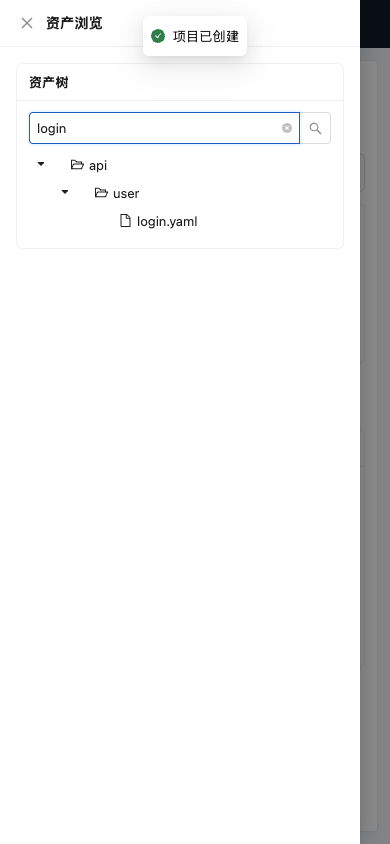
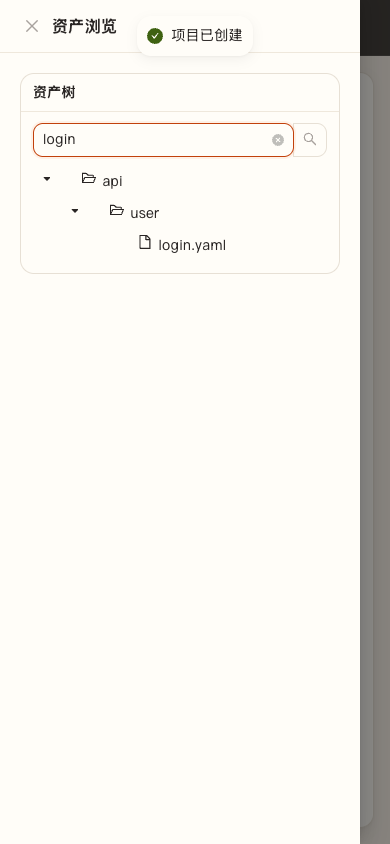
feat(frontend): 落地 C3 暖沙工作室主题与布局壳
用赤陶主色与暖沙底替换冷蓝工具台配色；柔圆角、轻阴影与展示感字阶；
刷新 phase2-4 e2e 截图并保留 c3- 关键页标注。

diff --git a/frontend/src/app/App.tsx b/frontend/src/app/App.tsx
@@ -8,53 +8,87 @@ import { ErrorBoundary } from '@/shared/ui/ErrorBoundary'
 
 const queryClient = createAppQueryClient()
 
+/** C3 暖沙工作室：暖灰沙底 + 赤陶强调，浅色长时操作友好 */
+const warmSandTheme = {
+  token: {
+    colorPrimary: '#c2410c',
+    colorInfo: '#c2410c',
+    colorSuccess: '#3f6212',
+    colorWarning: '#a16207',
+    colorError: '#b91c1c',
+    colorBgLayout: '#f5efe6',
+    colorBgContainer: '#fffdf8',
+    colorBgElevated: '#fffdf8',
+    colorBorder: '#e7e0d5',
+    colorBorderSecondary: '#efe8dc',
+    colorText: '#292524',
+    colorTextSecondary: '#78716c',
+    colorTextTertiary: '#a8a29e',
+    colorLink: '#c2410c',
+    colorLinkHover: '#9a3412',
+    borderRadius: 10,
+    borderRadiusLG: 14,
+    borderRadiusSM: 8,
+    fontSize: 14,
+    fontSizeHeading1: 36,
+    fontSizeHeading2: 28,
+    fontSizeHeading3: 22,
+    fontSizeHeading4: 20,
+    fontSizeHeading5: 16,
+    lineHeight: 1.55,
+    controlHeight: 34,
+    controlHeightSM: 28,
+    controlHeightLG: 40,
+    padding: 14,
+    paddingSM: 10,
+    paddingLG: 20,
+    margin: 14,
+    boxShadow:
+      '0 1px 2px rgba(41, 37, 36, 0.04), 0 4px 12px rgba(41, 37, 36, 0.06)',
+    boxShadowSecondary:
+      '0 1px 2px rgba(41, 37, 36, 0.05), 0 6px 16px rgba(41, 37, 36, 0.08)',
+    fontFamily:
+      "'Segoe UI', 'PingFang SC', 'Hiragino Sans GB', 'Noto Sans SC', -apple-system, BlinkMacSystemFont, Roboto, 'Helvetica Neue', Arial, sans-serif",
+  },
+  components: {
+    Layout: {
+      headerHeight: 56,
+      headerBg: '#44403c',
+      bodyBg: '#f5efe6',
+      siderBg: '#44403c',
+    },
+    Card: {
+      paddingLG: 16,
+      borderRadiusLG: 14,
+    },
+    Table: {
+      cellPaddingBlockSM: 8,
+      cellPaddingInlineSM: 10,
+      headerBg: '#faf6f0',
+      rowHoverBg: '#faf6f0',
+    },
+    Button: {
+      borderRadius: 10,
+      primaryShadow: '0 2px 6px rgba(194, 65, 12, 0.28)',
+    },
+    Menu: {
+      darkItemBg: '#44403c',
+      darkSubMenuItemBg: '#3f3a36',
+      darkItemSelectedBg: '#c2410c',
+    },
+    Typography: {
+      titleMarginBottom: '0.35em',
+      titleMarginTop: '0.6em',
+    },
+  },
+} as const
+
 export function App() {
   return (
     <ConfigProvider
       locale={zhCN}
       componentSize="middle"
-      theme={{
-        token: {
-          // 工具台：冷灰蓝主色、小圆角、略紧字阶与控件高度
-          colorPrimary: '#1f5fbf',
-          colorInfo: '#1f5fbf',
-          colorSuccess: '#2f7d4a',
-          colorWarning: '#b7791f',
-          colorError: '#c53d3d',
-          colorBgLayout: '#f0f2f5',
-          colorBgContainer: '#ffffff',
-          colorBorder: '#d9dde3',
-          colorText: 'rgba(0, 0, 0, 0.88)',
-          colorTextSecondary: 'rgba(0, 0, 0, 0.55)',
-          borderRadius: 4,
-          borderRadiusLG: 6,
-          fontSize: 13,
-          fontSizeHeading4: 16,
-          fontSizeHeading5: 14,
-          controlHeight: 32,
-          controlHeightSM: 24,
-          padding: 12,
-          paddingSM: 8,
-          paddingLG: 16,
-          margin: 12,
-          fontFamily:
-            "-apple-system, BlinkMacSystemFont, 'Segoe UI', Roboto, 'Helvetica Neue', Arial, 'Noto Sans', sans-serif",
-        },
-        components: {
-          Layout: {
-            headerHeight: 48,
-            headerBg: '#111827',
-            bodyBg: '#f0f2f5',
-          },
-          Card: {
-            paddingLG: 12,
-          },
-          Table: {
-            cellPaddingBlockSM: 6,
-            cellPaddingInlineSM: 8,
-          },
-        },
-      }}
+      theme={warmSandTheme}
     >
       <AntApp>
         <QueryClientProvider client={queryClient}>

diff --git a/frontend/src/app/AppLayout.tsx b/frontend/src/app/AppLayout.tsx
@@ -3,42 +3,64 @@ import { Outlet } from 'react-router-dom'
 
 const { Header, Content } = Layout
 
+/** C3 暖沙工作室壳：深暖石色顶栏 + 沙色内容区，柔圆角与轻阴影 */
 export function AppLayout() {
   return (
-    <Layout style={{ minHeight: '100vh' }}>
+    <Layout className="tp-shell" style={{ minHeight: '100vh' }}>
       <Header
+        className="tp-shell__header"
         style={{
           display: 'flex',
           alignItems: 'center',
-          gap: 12,
-          paddingInline: 16,
-          height: 48,
-          lineHeight: '48px',
-          background: '#111827',
+          gap: 14,
+          paddingInline: 20,
+          height: 56,
+          lineHeight: '56px',
+          background: '#44403c',
+          borderBottom: '1px solid rgba(255, 253, 248, 0.08)',
         }}
       >
-        <Typography.Text strong style={{ color: '#fff', fontSize: 14, letterSpacing: 0.2 }}>
+        <Typography.Text
+          strong
+          className="tp-shell__brand"
+          style={{
+            color: '#fffdf8',
+            fontSize: 18,
+            letterSpacing: 0.6,
+            lineHeight: 1.2,
+          }}
+        >
           TestPlat Control
         </Typography.Text>
-        <Typography.Text style={{ color: 'rgba(255,255,255,0.55)', fontSize: 12 }}>
-          控制台
+        <Typography.Text
+          style={{
+            color: 'rgba(255, 253, 248, 0.55)',
+            fontSize: 13,
+            letterSpacing: 0.2,
+          }}
+        >
+          暖沙工作室 · 控制台
         </Typography.Text>
       </Header>
       <Content
+        className="tp-shell__content"
         style={{
-          padding: 12,
-          background: '#f0f2f5',
+          padding: 16,
+          background: '#f5efe6',
           overflowX: 'hidden',
           maxWidth: '100vw',
         }}
       >
         <div
+          className="tp-shell__panel"
           style={{
-            background: '#fff',
-            padding: 12,
-            borderRadius: 4,
-            border: '1px solid #e5e7eb',
-            minHeight: 'calc(100vh - 72px)',
+            background: '#fffdf8',
+            padding: 16,
+            borderRadius: 14,
+            border: '1px solid #e7e0d5',
+            boxShadow:
+              '0 1px 2px rgba(41, 37, 36, 0.04), 0 4px 12px rgba(41, 37, 36, 0.06)',
+            minHeight: 'calc(100vh - 88px)',
             maxWidth: '100%',
             overflowX: 'hidden',
           }}

diff --git a/frontend/src/styles.css b/frontend/src/styles.css
@@ -15,21 +15,58 @@ body,
 
 body {
   font-family:
+    'Segoe UI',
+    'PingFang SC',
+    'Hiragino Sans GB',
+    'Noto Sans SC',
     -apple-system,
     BlinkMacSystemFont,
-    'Segoe UI',
     Roboto,
     'Helvetica Neue',
     Arial,
-    'Noto Sans',
     sans-serif;
-  background: #f0f2f5;
-  color: rgba(0, 0, 0, 0.88);
+  background: #f5efe6;
+  color: #292524;
+  -webkit-font-smoothing: antialiased;
 }
 
 code {
   font-family: ui-monospace, SFMono-Regular, Menlo, Monaco, Consolas, monospace;
   font-size: 0.92em;
+}
+
+/* C3：展示感标题字阶，正文保持可扫读 */
+.tp-page-title.ant-typography,
+h1.tp-page-title,
+h2.tp-page-title,
+h3.tp-page-title,
+h4.tp-page-title {
+  font-weight: 650;
+  letter-spacing: -0.02em;
+  color: #292524;
+  line-height: 1.25;
+}
+
+.tp-page-kicker {
+  display: block;
+  margin-bottom: 4px;
+  font-size: 12px;
+  font-weight: 600;
+  letter-spacing: 0.08em;
+  text-transform: uppercase;
+  color: #c2410c;
+}
+
+.tp-shell__brand {
+  font-weight: 650;
+}
+
+/* 轻阴影卡片面（工作台区块可复用） */
+.tp-surface {
+  background: #fffdf8;
+  border: 1px solid #e7e0d5;
+  border-radius: 12px;
+  box-shadow: 0 1px 2px rgba(41, 37, 36, 0.04);
 }
 
 /* 抽屉/表格在窄屏不撑破视口 */
@@ -39,4 +76,25 @@ code {
 
 .ant-table-wrapper {
   max-width: 100%;
+}
+
+/* 主按钮赤陶，避免冷蓝残留 */
+.ant-btn-primary:not(:disabled):not(.ant-btn-dangerous) {
+  box-shadow: 0 2px 6px rgba(194, 65, 12, 0.22);
+}
+
+.ant-card {
+  border-color: #e7e0d5;
+}
+
+.ant-collapse {
+  background: #fffdf8;
+  border-color: #e7e0d5;
+  border-radius: 12px;
+}
+
+.ant-input,
+.ant-input-affix-wrapper,
+.ant-select-selector {
+  border-radius: 10px !important;
 }

diff --git a/frontend/src/pages/ProjectWorkspacePage.tsx b/frontend/src/pages/ProjectWorkspacePage.tsx
@@ -142,11 +142,9 @@ export function ProjectWorkspacePage() {
       <section
         data-testid="workspace-asset-meta"
         aria-label="资产元信息"
+        className="tp-surface"
         style={{
-          border: '1px solid #f0f0f0',
-          borderRadius: 4,
-          padding: 12,
-          background: '#fff',
+          padding: 14,
         }}
       >
         <AssetDetailPanel
@@ -201,7 +199,7 @@ export function ProjectWorkspacePage() {
       style={{ maxWidth: '100%', overflowX: 'hidden' }}
     >
       <Space
-        style={{ width: '100%', justifyContent: 'space-between', marginBottom: 8 }}
+        style={{ width: '100%', justifyContent: 'space-between', marginBottom: 12 }}
         align="start"
         wrap
       >
@@ -212,7 +210,8 @@ export function ProjectWorkspacePage() {
             </Button>
           </Link>
           <Typography.Title
-            level={4}
+            level={3}
+            className="tp-page-title"
             style={{
               margin: 0,
               maxWidth: isNarrow ? 180 : 480,
@@ -295,6 +294,7 @@ export function ProjectWorkspacePage() {
           <aside
             data-testid="workspace-assets-aside"
             aria-label="资产浏览"
+            className="tp-surface"
             style={{
               flex: '0 0 300px',
               maxWidth: 360,
@@ -304,6 +304,7 @@ export function ProjectWorkspacePage() {
               alignSelf: 'flex-start',
               maxHeight: 'calc(100vh - 120px)',
               overflow: 'auto',
+              padding: 10,
             }}
           >
             {browser}

diff --git a/frontend/src/pages/ProjectListPage.tsx b/frontend/src/pages/ProjectListPage.tsx
@@ -123,14 +123,15 @@ export function ProjectListPage() {
   return (
     <div>
       <Space
-        style={{ width: '100%', justifyContent: 'space-between', marginBottom: 16 }}
+        style={{ width: '100%', justifyContent: 'space-between', marginBottom: 20 }}
         align="center"
       >
         <div>
-          <Typography.Title level={4} style={{ margin: 0 }}>
+          <span className="tp-page-kicker">Projects</span>
+          <Typography.Title level={3} className="tp-page-title" style={{ margin: 0 }}>
             项目列表
           </Typography.Title>
-          <Typography.Text type="secondary">
+          <Typography.Text type="secondary" style={{ fontSize: 14 }}>
             管理测试项目配置（名称、环境、资产目录、更新时间）。
           </Typography.Text>
         </div>

diff --git a/frontend/src/features/executions/JsonBlock.tsx b/frontend/src/features/executions/JsonBlock.tsx
@@ -69,9 +69,9 @@ export function JsonBlock({
           maxHeight,
           overflow: 'auto',
           padding: 12,
-          background: '#fafafa',
-          border: '1px solid #f0f0f0',
-          borderRadius: 4,
+          background: '#faf6f0',
+          border: '1px solid #e7e0d5',
+          borderRadius: 10,
           fontFamily: 'ui-monospace, SFMono-Regular, Menlo, monospace',
           fontSize: 12,
           lineHeight: 1.5,
